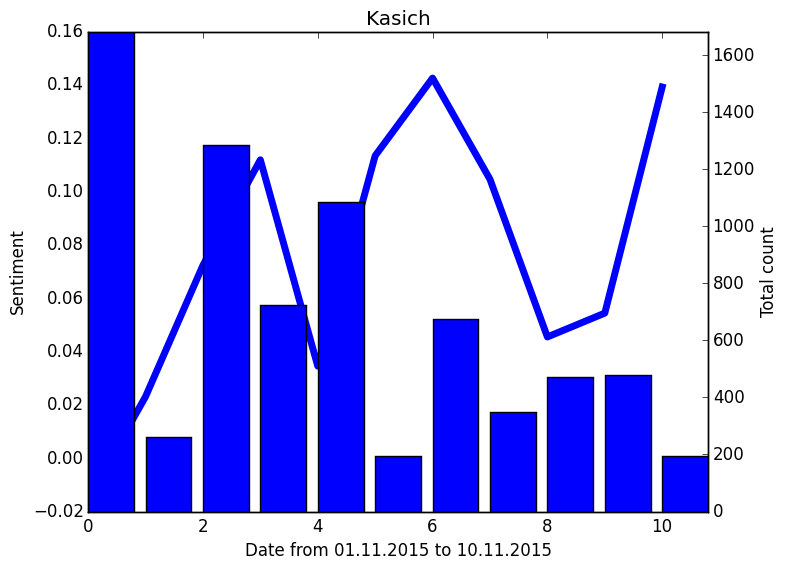
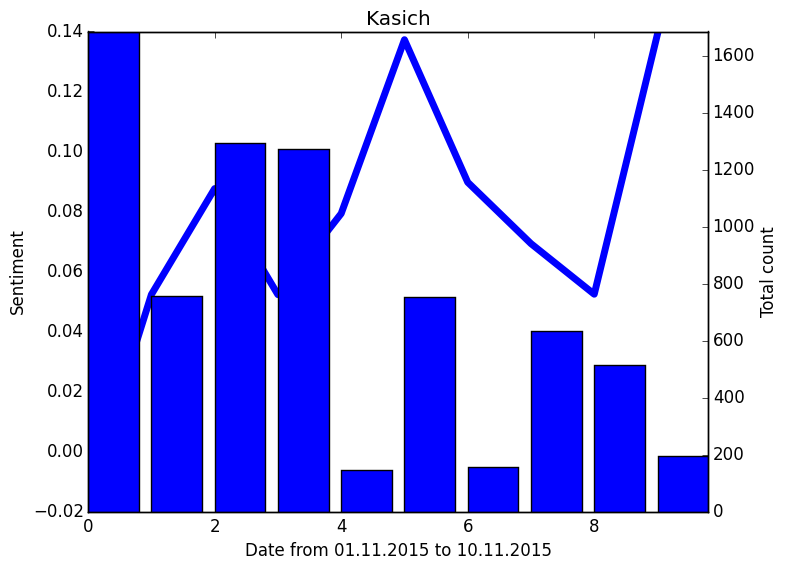
wykresy

diff --git a/plotter/DataProcessor.py b/plotter/DataProcessor.py
@@ -1,6 +1,6 @@
 from datetime import datetime
 
-DENSITY = 11
+DENSITY = 10
 START_DATE = datetime(2015, 11, 01)
 END_DATE = datetime(2015, 11, 11)
 INTERVAL = (END_DATE - START_DATE).total_seconds() / DENSITY
@@ -24,24 +24,38 @@ class DataProcessor:
             return 0.0
 
     @staticmethod
-    def find_time_span(date):
-        return min(int(((date - START_DATE).total_seconds()) / INTERVAL), DENSITY - 1)
+    def find_time_span(date, start_date, end_date):
+        interval = (end_date - start_date).total_seconds() / DENSITY
+        return min(int(((date - start_date).total_seconds()) / interval), DENSITY - 1)
 
     def process_sentiment_for_category(self, category):
         tweets = sorted(self.db.find_tweets_by_category(category, START_DATE, END_DATE), key=lambda tweet: tweet[1])
-        sentiments = [[0.0, 0.0] for i in range(DENSITY)]
-        for t in tweets:
-            time_span = self.find_time_span(t[1])
-            data = sentiments[time_span]
-            data[0] += self.get_sentiments_value(t[2])
-            data[1] += 1
-        return [(float(data[0]) / data[1]) if data[1] > 0 else 0.0 for data in sentiments], [(i, sentiments[i][1]) for i in range(DENSITY)]
+        return self.process_sentiment(tweets, START_DATE, END_DATE)
 
-    def process_sentiment_for_all_categories(self, categories):
+    def process_sentiment_for_categories(self, categories):
         result = []
         for category in categories:
             line, bar = self.process_sentiment_for_category(category)
             result.append((category, line, bar))
         return result
 
+    def process_count(self):
+        tweets = sorted(self.db.find_all_tweets(START_DATE, END_DATE), key=lambda tweet: tweet[1])
+        count = [0.0 for i in range(DENSITY)]
+        for t in tweets:
+            time_span = self.find_time_span(t[1], START_DATE, END_DATE)
+            count[time_span] += 1
+        return [(i, count[i]) for i in range(DENSITY)]
 
+    def process_sentiment_for_user(self, username, start_date, end_date):
+        tweets = sorted(self.db.find_tweets_by_username(username, start_date, end_date), key=lambda tweet: tweet[1])
+        return self.process_sentiment(tweets, start_date, end_date)
+
+    def process_sentiment(self, tweets, start_date, end_date):
+        sentiments = [[0.0, 0.0] for i in range(DENSITY)]
+        for t in tweets:
+            time_span = self.find_time_span(t[1], start_date, end_date)
+            data = sentiments[time_span]
+            data[0] += self.get_sentiments_value(t[2])
+            data[1] += 1
+        return [(float(data[0]) / data[1]) if data[1] > 0 else 0.0 for data in sentiments], [(i, sentiments[i][1]) for i in range(DENSITY)]

diff --git a/plotter/Main.py b/plotter/Main.py
@@ -1,3 +1,4 @@
+from datetime import datetime
 from plotter.DataProcessor import DataProcessor
 from plotter.Database import Database
 from plotter.Plotter import Plotter
@@ -7,14 +8,23 @@ if __name__ == "__main__":
     plotter = Plotter()
     processor = DataProcessor(database)
 
-    for category in database.find_all_categories():
-        line, bar = processor.process_sentiment_for_category(category)
-        plotter.save_line_and_bar(category, 'Sentiment', 'Total count', line, bar)
+    # plotter.save_bar('All tweets count', processor.process_count())
+    #
+    # for category in database.find_all_categories():
+    #     line, bar = processor.process_sentiment_for_category(category)
+    #     plotter.save_line_and_bar(category, 'Sentiment', 'Total count', line, bar)
+    #
+    # comparisons = [('democratic', 'republican'), ('Trump', 'Clinton')]
+    # for comparison in comparisons:
+    #     data = processor.process_sentiment_for_categories(comparison)
+    #     legend = [d[0] for d in data]
+    #     lines = [d[1] for d in data]
+    #     bars = [d[2] for d in data]
+    #     plotter.save_many_lines_and_bars('{0} vs {1}'.format(comparison[0], comparison[1]), 'Sentiment', 'Total count', legend, lines, bars)
 
-    comparisons = [('democratic', 'republican'), ('Trump', 'Clinton')]
-    for comparison in comparisons:
-        data = processor.process_sentiment_for_all_categories(comparison)
-        legend = [d[0] for d in data]
-        lines = [d[1] for d in data]
-        bars = [d[2] for d in data]
-        plotter.save_many_lines_and_bars('{0} vs {1}'.format(comparison[0], comparison[1]), 'Sentiment', 'Total count', legend, lines, bars)
+    START_DATE = datetime(2015, 10, 01)
+    END_DATE = datetime(2015, 11, 11)
+    users = ['realDonaldTrump', 'HillaryClinton', 'JebBush', 'tedcruz', 'BernieSanders']
+    for user in users:
+        line, bar = processor.process_sentiment_for_user(user, START_DATE, END_DATE)
+        plotter.save_line_and_bar(user, 'Sentiment', 'Total count', line, bar)

diff --git a/plotter/Database.py b/plotter/Database.py
@@ -17,5 +17,19 @@ class Database:
                      and t.date>=%s and t.date<=%s""", (category, start_date, end_date))
         return [(t[0], t[1], t[2]) for t in cur.fetchall()]
 
+    def find_all_tweets(self, start_date, end_date):
+        cur = self.connection.cursor()
+        cur.execute("""SELECT t.id, t.date FROM tweet t
+                     where t.date>=%s and t.date<=%s""", (start_date, end_date))
+        return [(t[0], t[1]) for t in cur.fetchall()]
+
+    def find_tweets_by_username(self, username, start_date, end_date):
+        cur = self.connection.cursor()
+        cur.execute("""SELECT t.id, t.date, t.sentiment FROM tweet t
+                     JOIN twitter_user u on t.user_id = u.id
+                     where u.username = %s
+                     and t.date>=%s and t.date<=%s""", (username, start_date, end_date))
+        return [(t[0], t[1], t[2]) for t in cur.fetchall()]
+
     def find_all_categories(self):
         return self.categories

diff --git a/plotter/Plotter.py b/plotter/Plotter.py
@@ -26,13 +26,16 @@ class Plotter:
         plt.close()
 
     @staticmethod
-    def plot_bar(title, bar):
+    def prepare_bar(title, bar):
         fig, ax1 = plt.subplots()
         ax1.bar([b[0] for b in bar], [b[1] for b in bar])
         ax1.set_title(title)
         ax1.set_xlabel('Date from 01.11.2015 to 10.11.2015')
         ax1.autoscale(tight=True)
-        plt.show()
+        return plt
+
+    def save_bar(self, title, bar):
+        self.prepare_bar(title, bar).savefig('file/{0}.png'.format(title), bbox_inches='tight')
         plt.close()
 
     def plot_many_bars(self, title, legend, bars):
@@ -57,7 +60,7 @@ class Plotter:
         ax2.bar([b[0] for b in bar], [b[1] for b in bar])
         ax2.set_ylabel(bar_label)
         ax2.set_title(title)
-        ax1.set_xlabel('Date from 01.11.2015 to 10.11.2015')
+        ax1.set_xlabel('Date from 01.10.2015 to 10.11.2015')
         ax2.autoscale(tight=True)
         return plt
 
